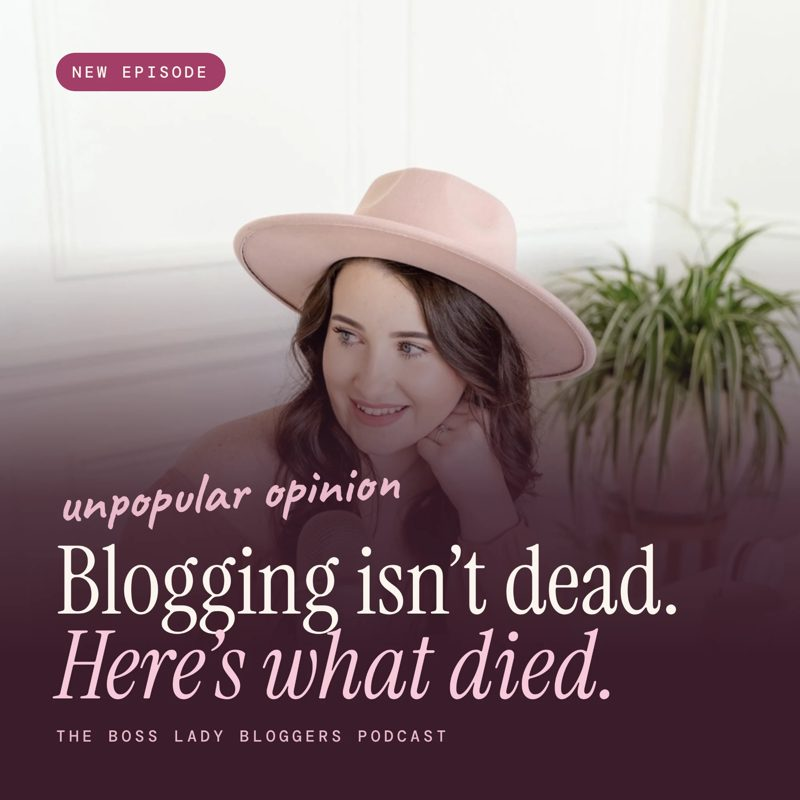
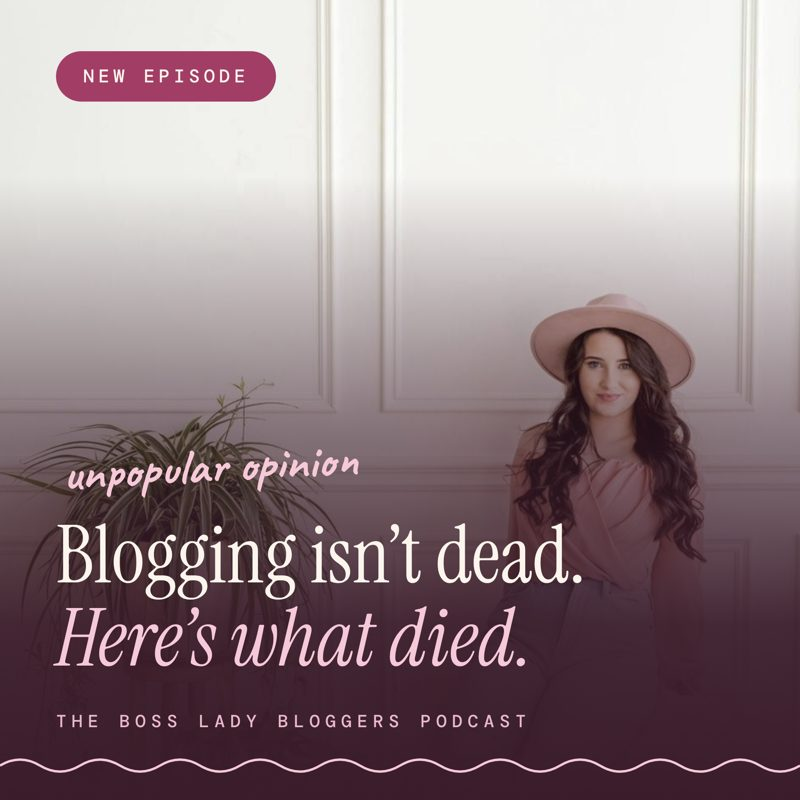
All six episode arts created fresh; trainings scene mockups placed
All six podcast episode covers are now built from the approved template
styles with consistent brand fonts: Blogging Isn't Dead and Blog Not
Making Money (photo gradient), 100 Blog Posts Zero Sales and The Year
BLB Went Quiet (blush typographic), Why Is My Blog Not Getting Traffic
and How to Start a Blog in 2026 (plum split with arch photo). Also
placed the five-device tools-suite scene in the Free Trainings hero and
the Foundations Builder device scene in both featured slots. Verified
no broken images or overflow.

Claude-Session: https://claude.ai/code/session_01H23eMND6JgFm3tCbCDc21q

diff --git a/site/free-trainings/index.html b/site/free-trainings/index.html
@@ -77,7 +77,7 @@
 <div class="rv"><a href="#trainings" class="pill" style="background:#A23E66;color:#FFFFFF">Pick your free training <span aria-hidden="true" style="width:34px;height:34px;border-radius:999px;background:#FFFFFF;display:flex;align-items:center;justify-content:center"><svg width="14" height="14" viewBox="0 0 14 14" fill="none" stroke="#A23E66" stroke-width="2" stroke-linecap="round"><path d="M3 11L11 3M5 3h6v6"></path></svg></span></a></div>
 </div>
 <div class="rv" style="flex:1 1 400px;min-width:0;position:relative;height:500px">
-<div style="overflow:hidden;position:absolute;left:0;top:20px;width:62%;height:400px;border-radius:28px;background:#3A1C2A;transform:rotate(-4deg);display:flex;align-items:flex-end;padding:20px"><img src="/images/mockups/02-offer-finder.jpg" alt="The Offer Finder free tool shown on a laptop" loading="lazy" style="position:absolute;inset:0;width:100%;height:100%;object-fit:cover;object-position:center 40%"></div>
+<div style="overflow:hidden;position:absolute;left:0;top:20px;width:62%;height:400px;border-radius:28px;background:#3A1C2A;transform:rotate(-4deg);display:flex;align-items:flex-end;padding:20px"><img src="/images/mockups/tools-suite.jpg" alt="The free Boss Lady Bloggers tools shown across five devices" loading="lazy" style="position:absolute;inset:0;width:100%;height:100%;object-fit:cover;object-position:center"></div>
 <div style="overflow:hidden;position:absolute;right:0;top:140px;width:46%;height:300px;border-radius:28px;background:#E9B9CA;transform:rotate(5deg);display:flex;align-items:flex-end;padding:20px"><img src="/images/mockups/08-email-writer.jpg" alt="The Email Writer free tool shown on a phone" loading="lazy" style="position:absolute;inset:0;width:100%;height:100%;object-fit:cover;object-position:70% center"></div>
 <span style="position:absolute;left:20%;bottom:0;background:#FFFFFF;border-radius:999px;padding:12px 20px;box-shadow:0 10px 30px rgba(58,28,42,0.14);font:600 14px/1 var(--font-body);color:#3A1C2A">10 trainings &#183; 10 tools &#183; $0</span>
 </div>
@@ -132,7 +132,7 @@
 </div>
 <div><a href="https://bossladybloggers.myflodesk.com/build" target="_blank" rel="noopener" class="pill" style="background:#FBF5EE;color:#3A1C2A">Get the free training and Foundations Builder <span aria-hidden="true" style="width:34px;height:34px;border-radius:999px;background:#A23E66;display:flex;align-items:center;justify-content:center"><svg width="14" height="14" viewBox="0 0 14 14" fill="none" stroke="#FFFFFF" stroke-width="2" stroke-linecap="round"><path d="M3 11L11 3M5 3h6v6"></path></svg></span></a></div>
 </div>
-<div style="overflow:hidden;flex:1 1 340px;min-width:0;min-height:360px;position:relative;background:#E9B9CA;display:flex;align-items:flex-end;padding:24px"><img src="/images/mockups/01-foundations-builder.jpg" alt="The Foundations Builder free tool on a laptop and phone" loading="lazy" style="position:absolute;inset:0;width:100%;height:100%;object-fit:cover;object-position:center"><span style="position:absolute;right:24px;top:24px;background:#FFFFFF;border-radius:999px;padding:10px 16px;font:600 13px/1 var(--font-body);color:#A23E66">Most popular</span></div>
+<div style="overflow:hidden;flex:1 1 340px;min-width:0;min-height:360px;position:relative;background:#E9B9CA;display:flex;align-items:flex-end;padding:24px"><img src="/images/mockups/foundations-scene.jpg" alt="The Foundations Builder free tool on a tablet and phone" loading="lazy" style="position:absolute;inset:0;width:100%;height:100%;object-fit:cover;object-position:center top"><span style="position:absolute;right:24px;top:24px;background:#FFFFFF;border-radius:999px;padding:10px 16px;font:600 13px/1 var(--font-body);color:#A23E66">Most popular</span></div>
 </div>
 
 <div class="grid3">

diff --git a/site/_pages/free-trainings.html b/site/_pages/free-trainings.html
@@ -14,7 +14,7 @@
 <div class="rv"><a href="#trainings" class="pill" style="background:#A23E66;color:#FFFFFF">Pick your free training <span aria-hidden="true" style="width:34px;height:34px;border-radius:999px;background:#FFFFFF;display:flex;align-items:center;justify-content:center"><svg width="14" height="14" viewBox="0 0 14 14" fill="none" stroke="#A23E66" stroke-width="2" stroke-linecap="round"><path d="M3 11L11 3M5 3h6v6"></path></svg></span></a></div>
 </div>
 <div class="rv" style="flex:1 1 400px;min-width:0;position:relative;height:500px">
-<div style="overflow:hidden;position:absolute;left:0;top:20px;width:62%;height:400px;border-radius:28px;background:#3A1C2A;transform:rotate(-4deg);display:flex;align-items:flex-end;padding:20px"><img src="/images/mockups/02-offer-finder.jpg" alt="The Offer Finder free tool shown on a laptop" loading="lazy" style="position:absolute;inset:0;width:100%;height:100%;object-fit:cover;object-position:center 40%"></div>
+<div style="overflow:hidden;position:absolute;left:0;top:20px;width:62%;height:400px;border-radius:28px;background:#3A1C2A;transform:rotate(-4deg);display:flex;align-items:flex-end;padding:20px"><img src="/images/mockups/tools-suite.jpg" alt="The free Boss Lady Bloggers tools shown across five devices" loading="lazy" style="position:absolute;inset:0;width:100%;height:100%;object-fit:cover;object-position:center"></div>
 <div style="overflow:hidden;position:absolute;right:0;top:140px;width:46%;height:300px;border-radius:28px;background:#E9B9CA;transform:rotate(5deg);display:flex;align-items:flex-end;padding:20px"><img src="/images/mockups/08-email-writer.jpg" alt="The Email Writer free tool shown on a phone" loading="lazy" style="position:absolute;inset:0;width:100%;height:100%;object-fit:cover;object-position:70% center"></div>
 <span style="position:absolute;left:20%;bottom:0;background:#FFFFFF;border-radius:999px;padding:12px 20px;box-shadow:0 10px 30px rgba(58,28,42,0.14);font:600 14px/1 var(--font-body);color:#3A1C2A">10 trainings &#183; 10 tools &#183; $0</span>
 </div>
@@ -69,7 +69,7 @@
 </div>
 <div><a href="https://bossladybloggers.myflodesk.com/build" target="_blank" rel="noopener" class="pill" style="background:#FBF5EE;color:#3A1C2A">Get the free training and Foundations Builder <span aria-hidden="true" style="width:34px;height:34px;border-radius:999px;background:#A23E66;display:flex;align-items:center;justify-content:center"><svg width="14" height="14" viewBox="0 0 14 14" fill="none" stroke="#FFFFFF" stroke-width="2" stroke-linecap="round"><path d="M3 11L11 3M5 3h6v6"></path></svg></span></a></div>
 </div>
-<div style="overflow:hidden;flex:1 1 340px;min-width:0;min-height:360px;position:relative;background:#E9B9CA;display:flex;align-items:flex-end;padding:24px"><img src="/images/mockups/01-foundations-builder.jpg" alt="The Foundations Builder free tool on a laptop and phone" loading="lazy" style="position:absolute;inset:0;width:100%;height:100%;object-fit:cover;object-position:center"><span style="position:absolute;right:24px;top:24px;background:#FFFFFF;border-radius:999px;padding:10px 16px;font:600 13px/1 var(--font-body);color:#A23E66">Most popular</span></div>
+<div style="overflow:hidden;flex:1 1 340px;min-width:0;min-height:360px;position:relative;background:#E9B9CA;display:flex;align-items:flex-end;padding:24px"><img src="/images/mockups/foundations-scene.jpg" alt="The Foundations Builder free tool on a tablet and phone" loading="lazy" style="position:absolute;inset:0;width:100%;height:100%;object-fit:cover;object-position:center top"><span style="position:absolute;right:24px;top:24px;background:#FFFFFF;border-radius:999px;padding:10px 16px;font:600 13px/1 var(--font-body);color:#A23E66">Most popular</span></div>
 </div>
 
 <div class="grid3">

diff --git a/site/start-here/index.html b/site/start-here/index.html
@@ -151,7 +151,7 @@
 <p style="margin:0;font:600 15px/1.5 var(--font-body);color:#FBF5EE">Your free tool: The Foundations Builder</p>
 <div><a href="https://bossladybloggers.myflodesk.com/build" target="_blank" rel="noopener" class="pill" style="background:#FBF5EE;color:#3A1C2A">Get the free training <span aria-hidden="true" style="width:34px;height:34px;border-radius:999px;background:#A23E66;display:flex;align-items:center;justify-content:center"><svg width="14" height="14" viewBox="0 0 14 14" fill="none" stroke="#FFFFFF" stroke-width="2" stroke-linecap="round"><path d="M3 11L11 3M5 3h6v6"></path></svg></span></a></div>
 </div>
-<div style="overflow:hidden;flex:1 1 380px;min-width:0;min-height:380px;position:relative;background:#E9B9CA;display:flex;align-items:flex-end;padding:24px"><img src="/images/mockups/01-foundations-builder.jpg" alt="The Foundations Builder free tool on a laptop and phone" loading="lazy" style="position:absolute;inset:0;width:100%;height:100%;object-fit:cover;object-position:center">
+<div style="overflow:hidden;flex:1 1 380px;min-width:0;min-height:380px;position:relative;background:#E9B9CA;display:flex;align-items:flex-end;padding:24px"><img src="/images/mockups/foundations-scene.jpg" alt="The Foundations Builder free tool on a tablet and phone" loading="lazy" style="position:absolute;inset:0;width:100%;height:100%;object-fit:cover;object-position:center top">
 <span style="position:absolute;right:24px;top:24px;background:#FFFFFF;border-radius:999px;padding:10px 16px;font:600 13px/1 var(--font-body);color:#A23E66">Free &#183; Watch now</span>
 
 </div>

diff --git a/site/_pages/start-here.html b/site/_pages/start-here.html
@@ -88,7 +88,7 @@
 <p style="margin:0;font:600 15px/1.5 var(--font-body);color:#FBF5EE">Your free tool: The Foundations Builder</p>
 <div><a href="https://bossladybloggers.myflodesk.com/build" target="_blank" rel="noopener" class="pill" style="background:#FBF5EE;color:#3A1C2A">Get the free training <span aria-hidden="true" style="width:34px;height:34px;border-radius:999px;background:#A23E66;display:flex;align-items:center;justify-content:center"><svg width="14" height="14" viewBox="0 0 14 14" fill="none" stroke="#FFFFFF" stroke-width="2" stroke-linecap="round"><path d="M3 11L11 3M5 3h6v6"></path></svg></span></a></div>
 </div>
-<div style="overflow:hidden;flex:1 1 380px;min-width:0;min-height:380px;position:relative;background:#E9B9CA;display:flex;align-items:flex-end;padding:24px"><img src="/images/mockups/01-foundations-builder.jpg" alt="The Foundations Builder free tool on a laptop and phone" loading="lazy" style="position:absolute;inset:0;width:100%;height:100%;object-fit:cover;object-position:center">
+<div style="overflow:hidden;flex:1 1 380px;min-width:0;min-height:380px;position:relative;background:#E9B9CA;display:flex;align-items:flex-end;padding:24px"><img src="/images/mockups/foundations-scene.jpg" alt="The Foundations Builder free tool on a tablet and phone" loading="lazy" style="position:absolute;inset:0;width:100%;height:100%;object-fit:cover;object-position:center top">
 <span style="position:absolute;right:24px;top:24px;background:#FFFFFF;border-radius:999px;padding:10px 16px;font:600 13px/1 var(--font-body);color:#A23E66">Free &#183; Watch now</span>
 
 </div>
